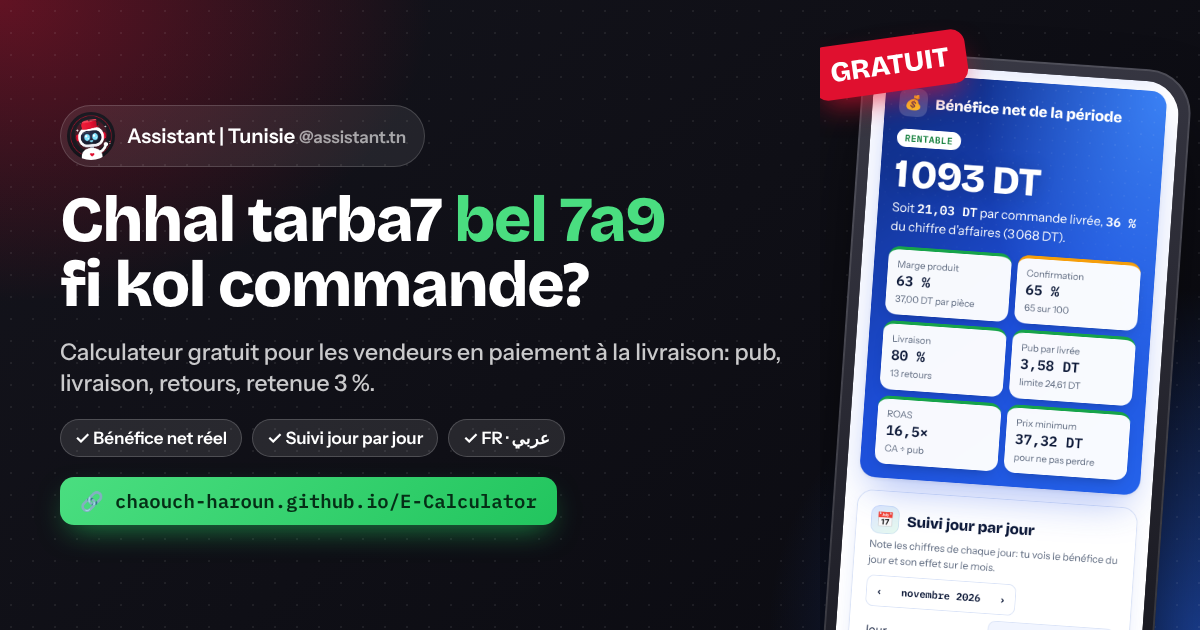
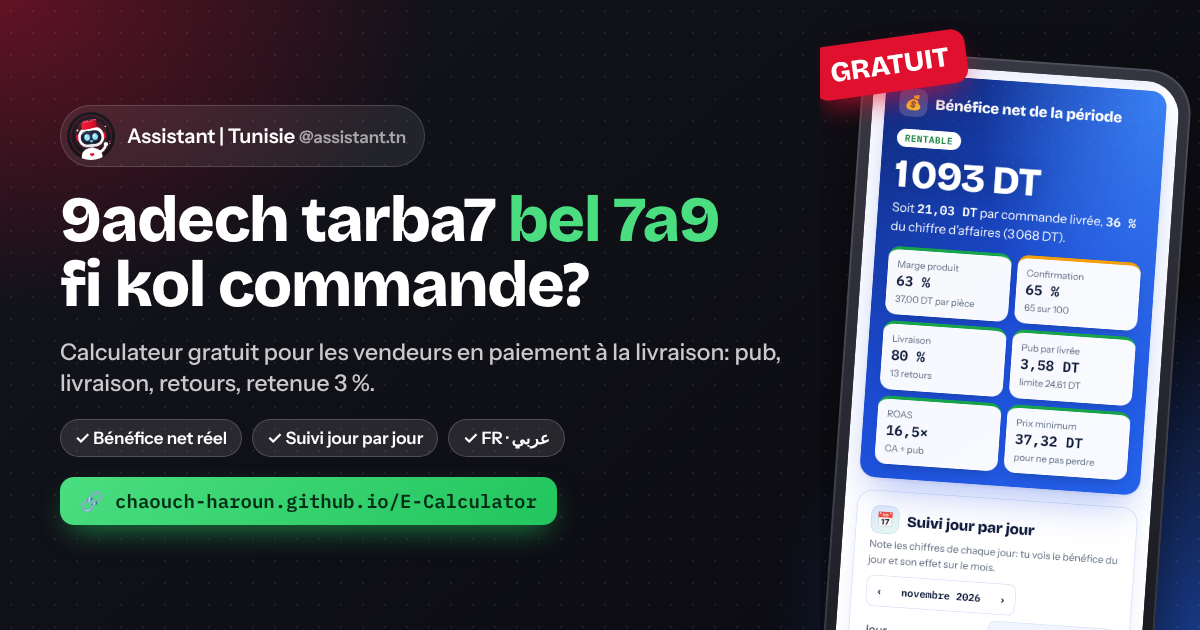
Link preview: "9adech" (Tunisian) instead of "chhal"
Claude-Session: https://claude.ai/code/session_01EyzkdUtwXRknfagwKgy7Gj

Changed region(s): [[0.0308, 0.3016, 0.6167, 0.3921]]

diff --git a/index.html b/index.html
@@ -4,7 +4,7 @@
 <meta name="description" content="Calcule ton vrai bénéfice en e-commerce (paiement à la livraison): marge, pub, retours, suivi jour par jour et rapport.">
 <meta name="theme-color" content="#1d4ed8">
 <meta property="og:type" content="website"><meta property="og:site_name" content="Assistant | Tunisie">
-<meta property="og:title" content="E-Calculator – Chhal tarba7 bel 7a9 fi kol commande?">
+<meta property="og:title" content="E-Calculator – 9adech tarba7 bel 7a9 fi kol commande?">
 <meta property="og:description" content="Calculateur gratuit pour les vendeurs en paiement à la livraison: bénéfice net réel, pub, livraison, retours, suivi jour par jour. FR · عربي · EN.">
 <meta property="og:url" content="https://chaouch-haroun.github.io/E-Calculator/">
 <meta property="og:image" content="https://chaouch-haroun.github.io/E-Calculator/og-image.png"><meta property="og:image:width" content="1200"><meta property="og:image:height" content="630">
